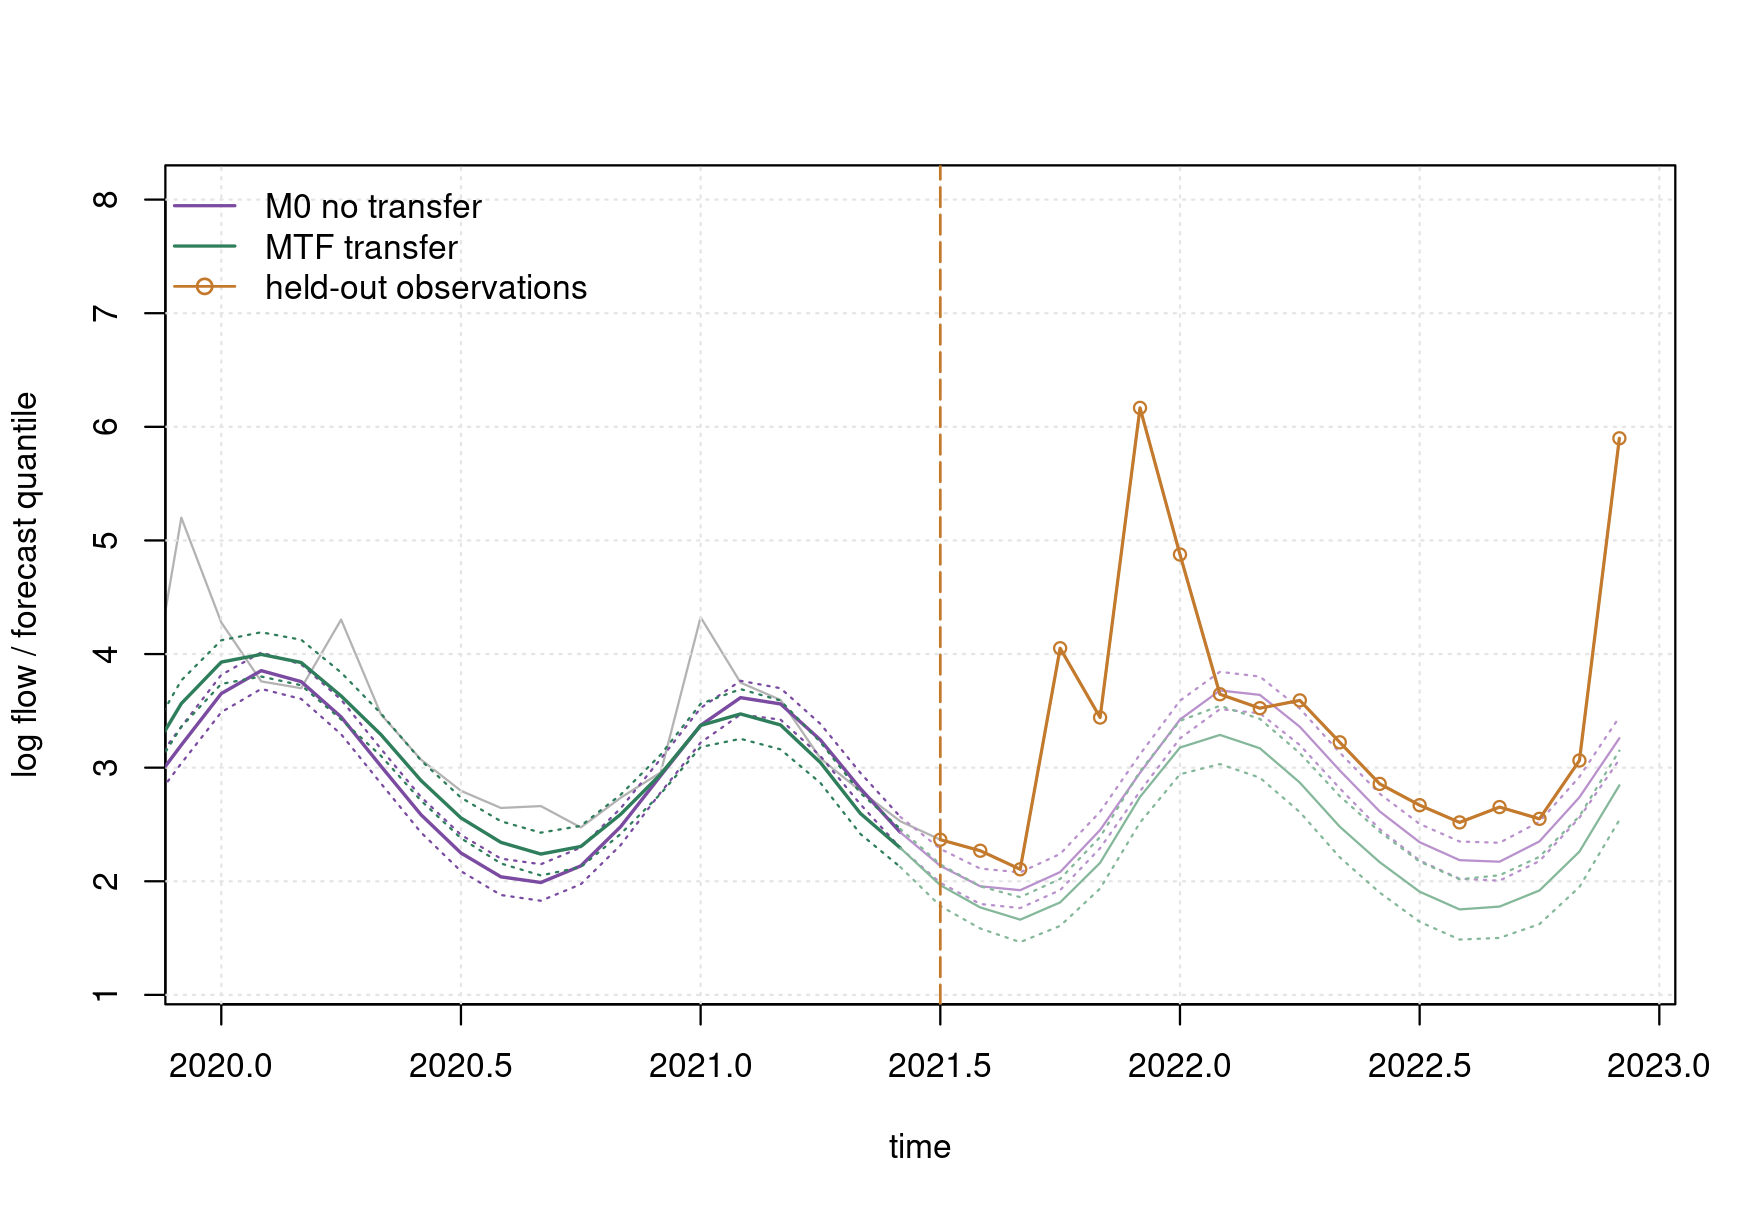
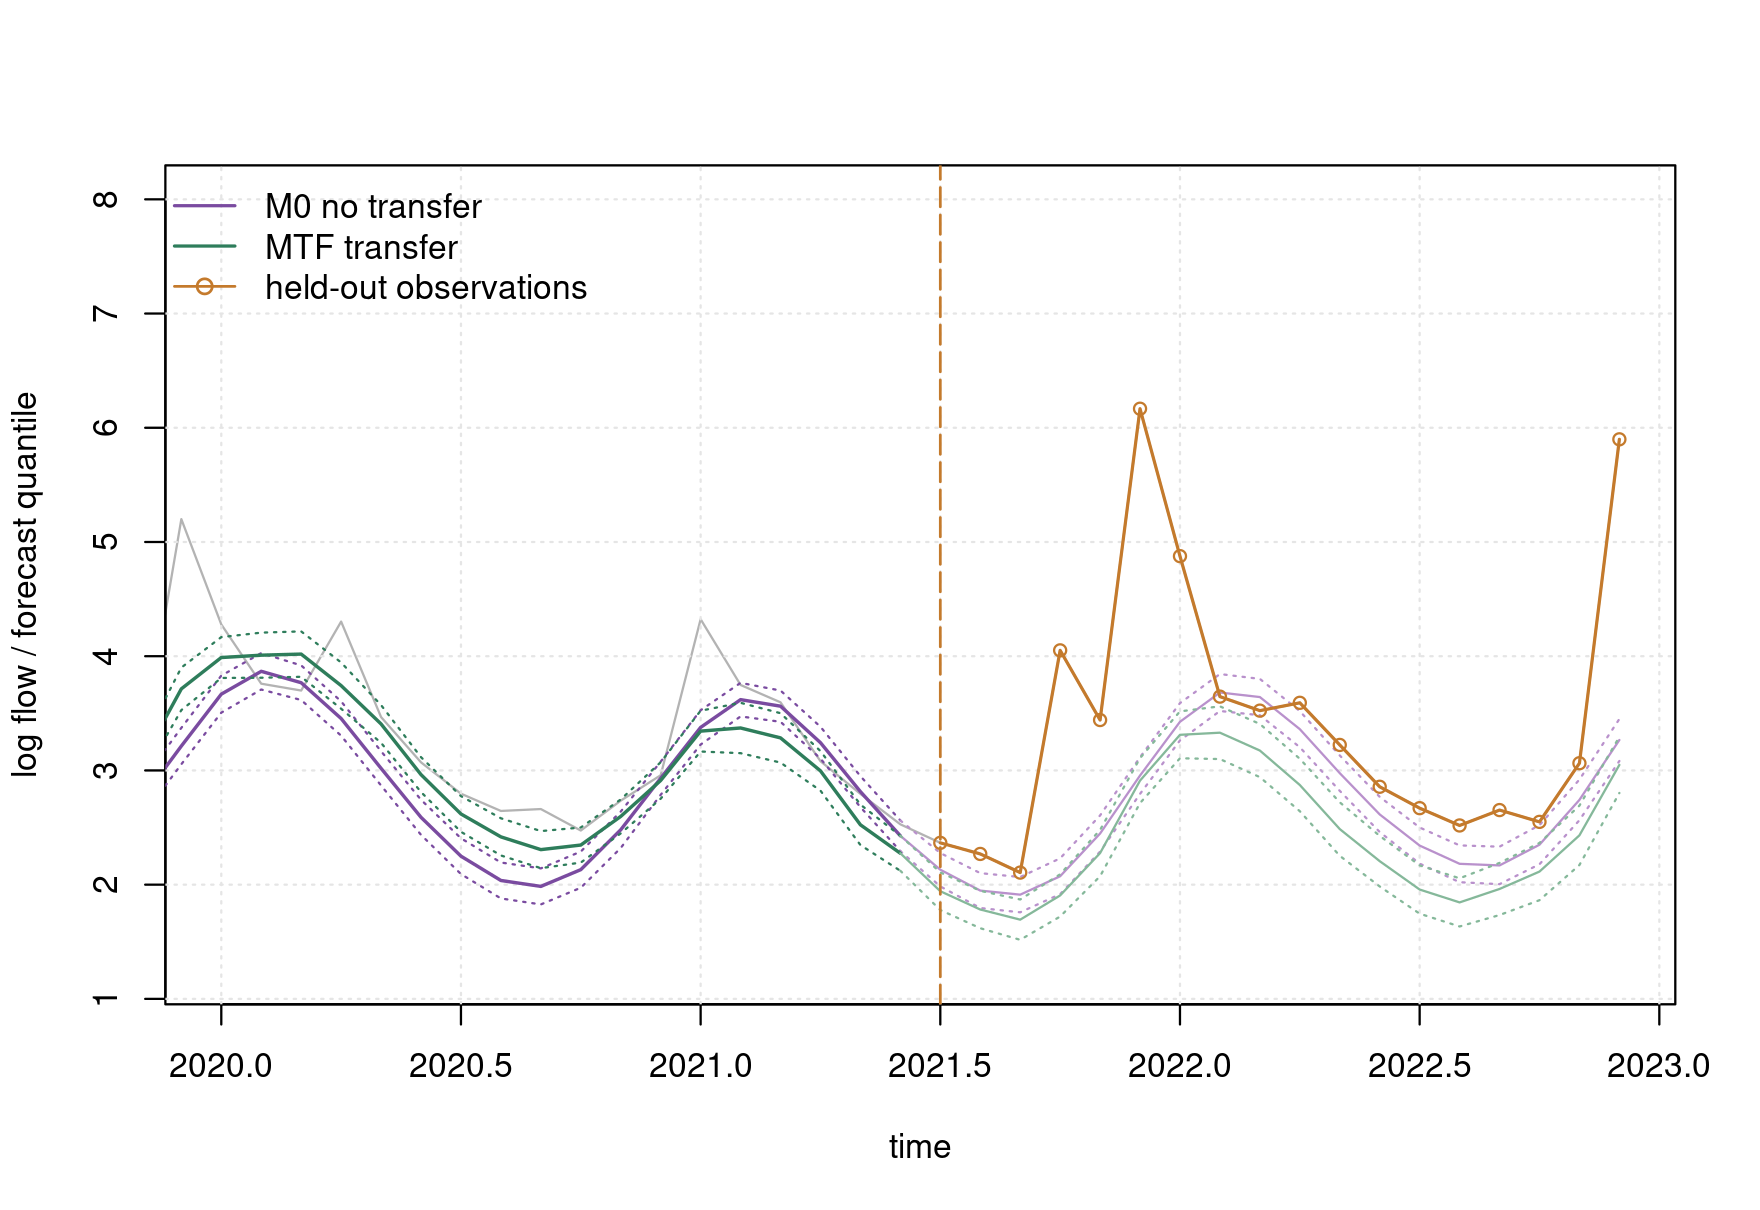
Sync Example 3 fixed-prior outputs

Changed region(s): [[0.375, 0.5504, 0.9375, 0.7645], [0.0938, 0.5198, 0.375, 0.7339], [0.5938, 0.5198, 0.625, 0.581]]

diff --git a/exdqlm-jss.tex b/exdqlm-jss.tex
@@ -1026,7 +1026,7 @@ R> lambda.star = lambda.grid[which.min(pplc.grid)]
 R> lambda.star
 \end{CodeInput}
 \begin{CodeOutput}
-[1] 0.9
+[1] 0.8
 \end{CodeOutput}
 \end{CodeChunk}
 
@@ -1142,14 +1142,14 @@ R> title(expression(psi[list(AMO, t)]))
 The fitted object also reports \code{median.kt}, the median number of time steps
 until the transfer effect on the \(0.15\) quantile is less than or equal to
 \(1\mathrm{e}{-3}\), as discussed in Section \ref{sec:tf}. Here
-\code{median.kt} is approximately 35.28, indicating a persistent transfer effect
+\code{median.kt} is approximately 19.19, indicating a persistent transfer effect
 under the selected \(\lambda\).
 \begin{CodeChunk}
 \begin{CodeInput}
 R> MTF$median.kt
 \end{CodeInput}
 \begin{CodeOutput}
-[1] 35.27921
+[1] 19.18759
 \end{CodeOutput}
 \end{CodeChunk}
 
@@ -1214,8 +1214,8 @@ R> tab.ex3 = data.frame(
  \toprule
  Model & KL & CRPS & PPLC \\
  \midrule
- \code{M0} no transfer & 0.243 & 0.481 & \textbf{100.901} \\
- \code{MTF} transfer function & \textbf{0.153} & \textbf{0.371} & 120.404 \\
+ \code{M0} no transfer & 0.168 & 0.472 & \textbf{99.620} \\
+ \code{MTF} transfer function & \textbf{0.122} & \textbf{0.362} & 123.697 \\
  \bottomrule
 \end{tabular}
 \caption{Example 3: Big Tree water flow. Package diagnostics from

diff --git a/analysis/manuscript/outputs/tables/manuscript_repro_tracker.md b/analysis/manuscript/outputs/tables/manuscript_repro_tracker.md
@@ -1,6 +1,6 @@
 # Manuscript Reproducibility Tracker
 
-Generated: 2026-05-13 20:08:27
+Generated: 2026-05-13 22:27:10
 Profile: standard
 Seed: 20260501
 
@@ -34,7 +34,7 @@ Seed: 20260501
 - [reproduced] `ex3_run_summary` -> `analysis/manuscript/outputs/logs/ex3_run_summary.txt` (Example 3 textual outputs). Observed BTflow plus NOI/AMO Example 3 summary with training-selected transfer settings, package diagnostics, and held-out forecast metrics.
 - [reproduced] `tab_ex3_model_dataset` -> `analysis/manuscript/outputs/tables/ex3_model_dataset.csv` (Example 3 modeling dataset). Aligned Big Tree flow and climate-index data used by Example 3, with training and forecast-holdout phase labels.
 - [reproduced] `tab_ex3_covariate_scaling` -> `analysis/manuscript/outputs/tables/ex3_covariate_scaling.csv` (Example 3 covariate scaling). Training-window means and standard deviations used to standardize Example 3 climate indices.
-- [reproduced] `tab_ex3_lambda_selection` -> `analysis/manuscript/outputs/tables/ex3_lambda_selection.csv` (Example 3 transfer training-selection output). Example 3 transfer-function training diagnostic grid; selected lambda=0.900 and transfer psi discount=0.990 by training PPLC.
+- [reproduced] `tab_ex3_lambda_selection` -> `analysis/manuscript/outputs/tables/ex3_lambda_selection.csv` (Example 3 transfer training-selection output). Example 3 transfer-function training diagnostic grid; selected lambda=0.800 and transfer psi discount=0.990 by training PPLC.
 - [reproduced] `tab_ex3_diagnostics` -> `analysis/manuscript/outputs/tables/ex3_diagnostics_summary.csv` (tab:ex3). Example 3 final-training package diagnostics from exdqlmDiagnostics for the no-transfer and transfer-function models.
 - [reproduced] `tab_ex3_forecast_metrics` -> `analysis/manuscript/outputs/tables/ex3_forecast_metrics.csv` (support: Example 3 holdout forecast metrics). Support-side Example 3 final 18-month holdout forecast metrics computed by article replication helpers, not exdqlmDiagnostics.
 - [reproduced] `tab_ex3_sensitivity_forecast_metrics` -> `analysis/manuscript/outputs/tables/ex3_sensitivity_forecast_metrics.csv` (Example 3 sensitivity forecast metrics). Example 3 final 18-month holdout forecast metrics including the internal direct-regression sensitivity model.
@@ -58,7 +58,7 @@ Seed: 20260501
 - ex2_ldvb_diag: Added LDVB diagnostic refit for convergence checks (tol=0.01, n.samp=3000, iter=200).
 - ex2: Sunspots LDVB discount-factor screen selects seasonal discount factor=0.85 by CRPS for this run profile; KL is reported alongside it.
 - ex2_ldvb: Sunspots LDVB discount-factor screen selects seasonal discount factor=0.85 by CRPS for this run profile; KL is reported alongside it.
-- ex3: Example 3 selected lambda=0.900 using training-data PPLC with transfer psi discount fixed at 0.990.
+- ex3: Example 3 selected lambda=0.800 using training-data PPLC with transfer psi discount fixed at 0.990.
 - ex3: Example 3 final forecast metrics are computed only on the 18-month holdout window from 2021-07 to 2022-12.
 - ex4: Example 4 uses a sparse correlated-Gaussian regression benchmark with a target-quantile-centered Gaussian response model, so the true p0-quantile equals X beta at each fitted p0.
 - ex4: The static sparse benchmark uses the Nishimura-Suchard regularized horseshoe (rhs_ns) prior with tau0 = 0.15, zeta2_fixed = 9, and an unshrunk intercept.